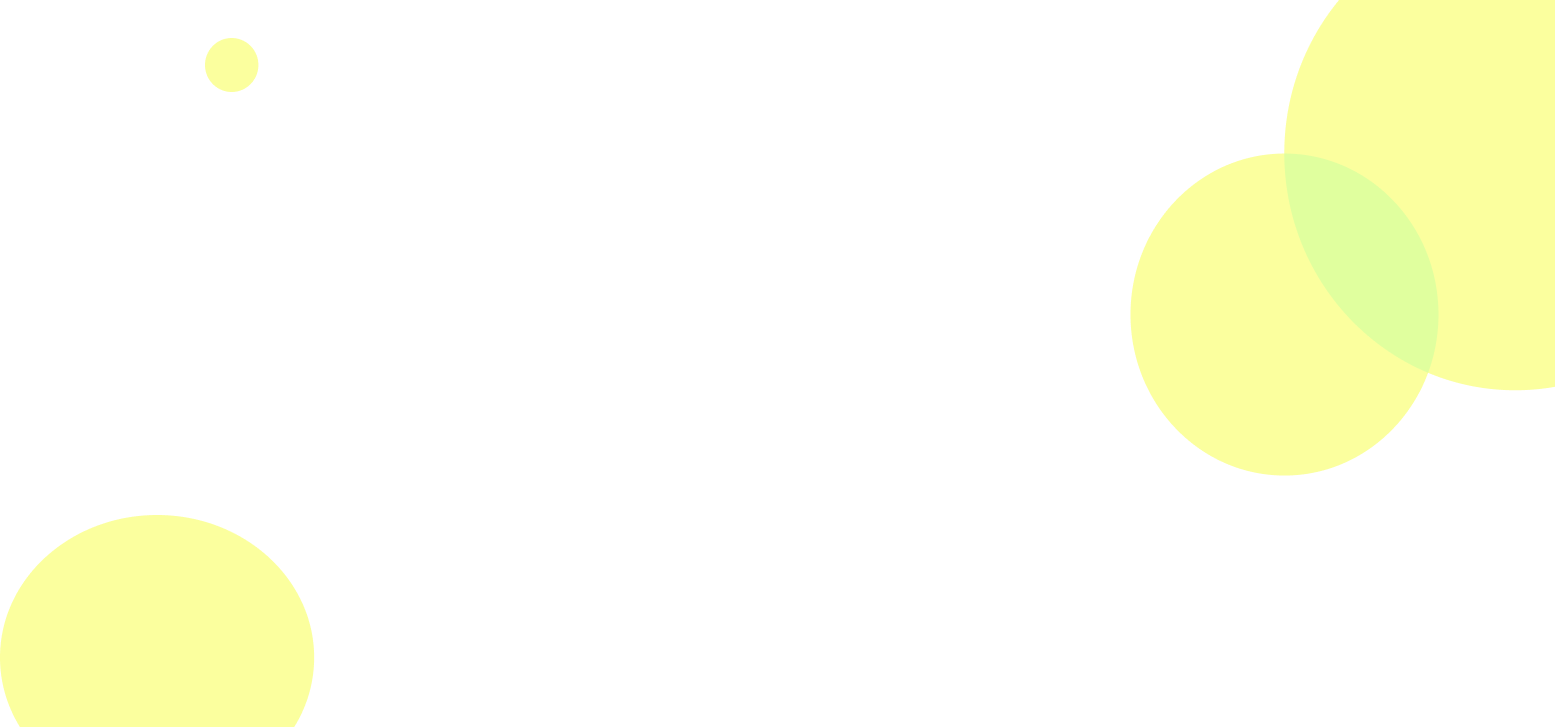
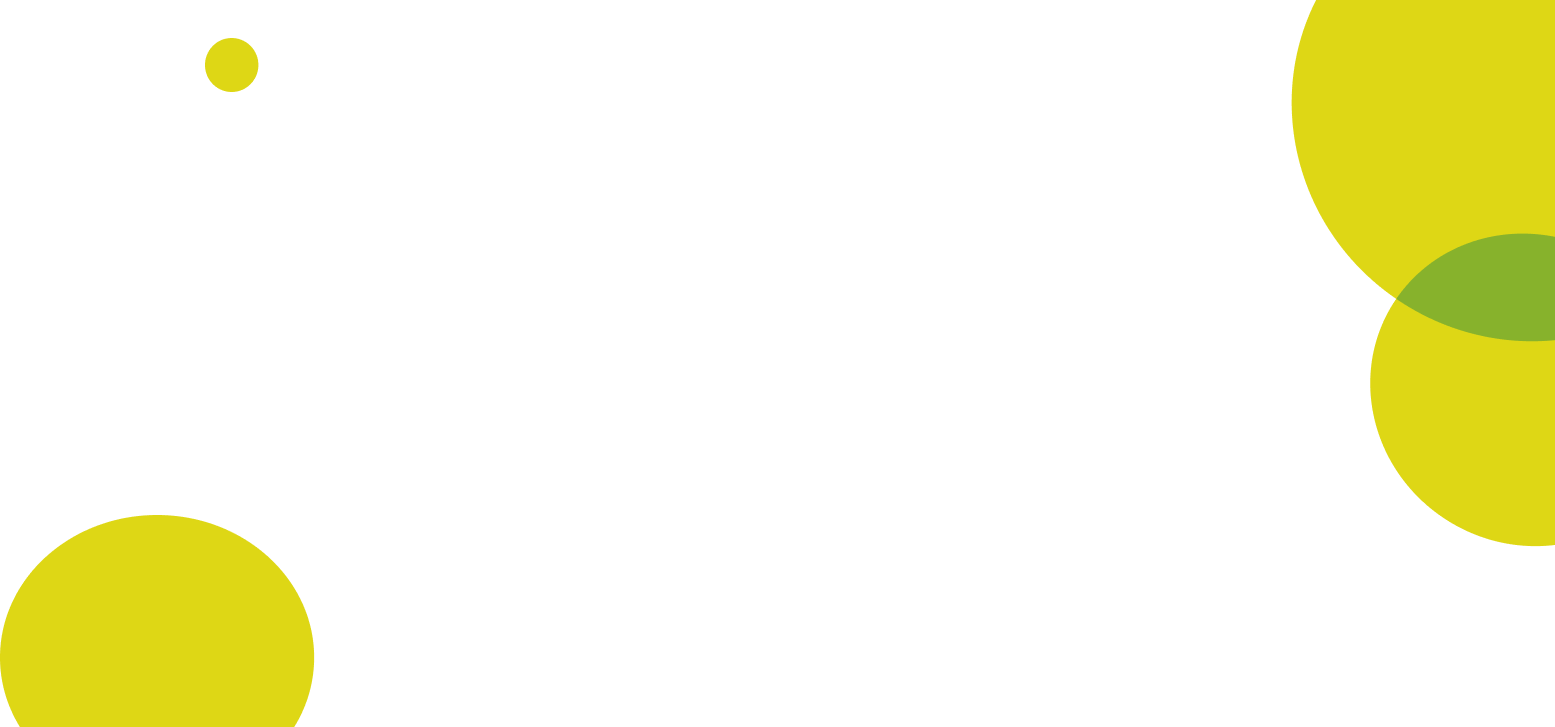
Minor adjust in the cover

Changed region(s): [[0.71, 0.0, 1.0, 0.7565], [0.0, 0.696, 0.2161, 1.0], [0.1235, 0.0303, 0.1852, 0.121]]

diff --git a/src/app/components/cover/cover.component.scss b/src/app/components/cover/cover.component.scss
@@ -5,7 +5,6 @@
   align-items: center;
   height: calc(100vh - 6.2rem);
   color: white;
-  // background-color: black;
   background: black url('/assets/img/cover-background.png') no-repeat;
   background-size: cover;
   padding: 0 4rem;
@@ -40,7 +39,7 @@
     background: linear-gradient(
       to right,
       rgba(194, 255, 63, 0.5) 50%,
-      rgba(249, 255, 63, 0) 50%
+      transparent 50%
     );
     background-size: 200% 100%;
     background-position: right bottom;
